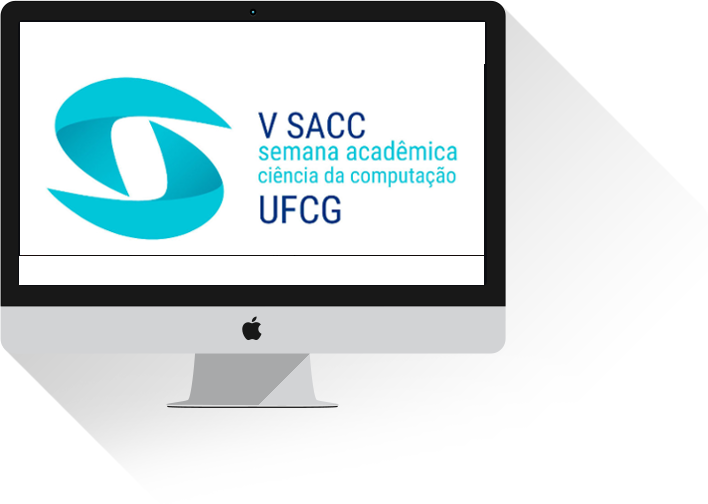
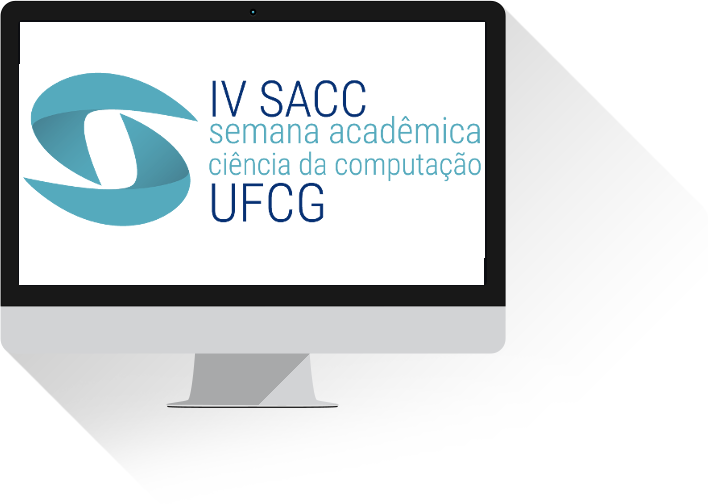
Mudando a imagem do computador que estava com a edição errada do evento e adicionando um ícone de browser ao site.

Changed region(s): [[0.0311, 0.119, 0.6836, 0.4762], [0.3418, 0.625, 0.3729, 0.6845]]

diff --git a/index.html b/index.html
@@ -13,7 +13,7 @@
     
     <!-- Favicons
     ================================================== -->
-    <link rel="shortcut icon" href="img/favicon.ico" type="image/x-icon">
+    <link rel="shortcut icon" href="img/icon.png" type="image/x-icon">
     <link rel="apple-touch-icon" href="img/apple-touch-icon.png">
     <link rel="apple-touch-icon" sizes="72x72" href="img/apple-touch-icon-72x72.png">
     <link rel="apple-touch-icon" sizes="114x114" href="img/apple-touch-icon-114x114.png">
